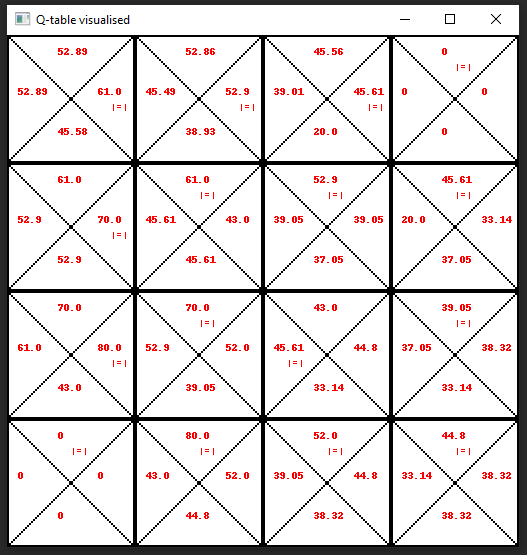
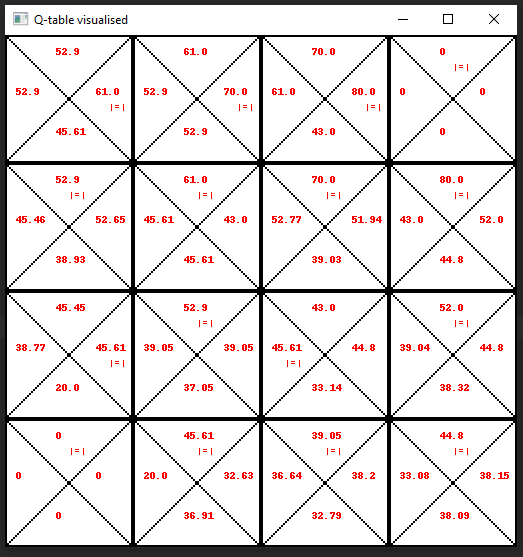
Updated readme and fixed some setting in sim.py

diff --git a/modelfree_prediction/code_for_implementation/simulator.py b/modelfree_prediction/code_for_implementation/simulator.py
@@ -161,7 +161,7 @@ if __name__ == "__main__":
             discount_rate = 1
             alpha = 0.1
             epsilon = 0.7
-            exploring_starts = False
+            exploring_starts = True
             print(
                 f"Sarsa control Temporal Difference Learning\n{iterations=}\t{discount_rate=}\t{alpha=}\t{epsilon=}\t{exploring_starts=}\nOutcome\n")
             print(sarsa_tem_dif_ler(environment_eg,
@@ -176,7 +176,8 @@ if __name__ == "__main__":
             a3.load_value_matrix('policy_saves/best_paths_custom.csv')
             # print(a3.policy.value_matrix)
             iterations = 50000
-            discount_rate = 0.9
+            discount_rate = 1
+            # discount_rate = 0.9
             alpha = 0.1
             epsilon = 0.9
             exploring_starts = True
@@ -194,6 +195,7 @@ if __name__ == "__main__":
             a4.load_value_matrix('policy_saves/best_paths_custom.csv')
             # print(a4.policy.value_matrix)
             iterations = 50000
+            # discount_rate = 1
             discount_rate = 0.9
             alpha = 0.1
             epsilon = 0.9
